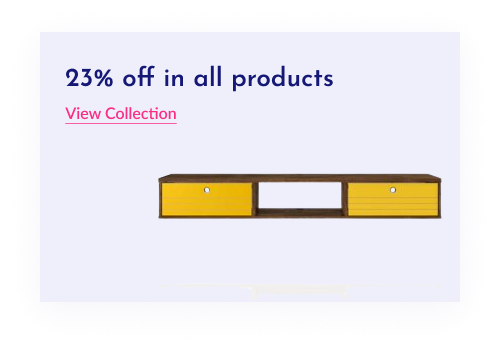
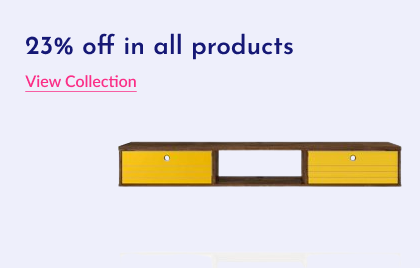
correct font

Changed region(s): [[0.2786, 0.4776, 0.9595, 0.7164], [0.0619, 0.1194, 0.7119, 0.3582]]

diff --git a/components/sections/home/TrendingProduct.tsx b/components/sections/home/TrendingProduct.tsx
@@ -42,7 +42,7 @@ const rightImg = [
 const TrendingProduct = () => {
   return (
     <section className="mt-20 container">
-      <h1 className="text-4xl text-center text-1 font-bold text-indigo-950">
+      <h1 className="text-4xl text-center jon font-bold text-indigo-950">
         Trending Products
       </h1>
       <div className="flex justify-center items-center gap-10 flex-col md:flex-row">
@@ -53,7 +53,7 @@ const TrendingProduct = () => {
           >
             <Image src={item.img} alt={item.name} width={247} height={244} />
             <p className="lato font-bold text-indigo-950 my-4">{item.name}</p>
-            <div className="flex justify-center items-center gap-x-2 text-1">
+            <div className="flex justify-center items-center gap-x-2 jon">
               <p className="text-indigo-950 text-sm">{item.price}</p>
               <p className="text-slate-300 text-[12px] line-through">
                 {item.prevPrice}
@@ -62,22 +62,22 @@ const TrendingProduct = () => {
           </div>
         ))}
       </div>
-      <div className="flex justify-center items-center mt-6 lg:flex-row flex-col">
+      <div className="flex justify-between items-center gap-2 mt-6 lg:flex-row flex-col">
         <Image
           src={"/trendingProducts/img-bottom-1.png"}
           alt="bottom-img"
           width={420}
           height={280}
-          className="w-auto h-[320px] cursor-pointer hover:scale-110 transition-all"
+          className=" h-[250px] w-[360px] cursor-pointer hover:scale-110 transition-all"
         />
         <Image
           src={"/trendingProducts/img-bottom-2.png"}
           alt="bottom-img"
           width={420}
           height={280}
-          className="w-auto h-[320px] cursor-pointer hover:scale-110 transition-all"
+          className=" h-[250px] w-[360px] cursor-pointer hover:scale-110 transition-all"
         />
-        <div className="flex items-center justify-center flex-col gap-y-3 mb-3">
+        <div className="flex items-center justify-center flex-col gap-y-3">
           {rightImg.map((item, index) => (
             <Image
               src={item.url}

diff --git a/app/product/[id]/page.tsx b/app/product/[id]/page.tsx
@@ -146,7 +146,7 @@ const page = ({ params }: { params: { id: string } }) => {
           </div>
         </div>
       </section>
-      <div className="mt-20 bg-slate-100 w-full lg:px-20 px-4 text-1 py-20 ">
+      <div className="mt-20 bg-slate-100 w-full lg:px-20 px-4 jon py-20 ">
         <div className="font-bold text-2xl flex justify-start items-center text-indigo-900 gap-x-20 lg:flex-row flex-col gap-y-8">
           <h1 className="underline cursor-pointer">Description</h1>
           <h1 className="cursor-pointer">Additional Info</h1>
@@ -195,7 +195,7 @@ const page = ({ params }: { params: { id: string } }) => {
         </p>
       </div>
       <div className="mt-20">
-        <h1 className="text-4xl text-center text-1 font-bold text-indigo-950">
+        <h1 className="text-4xl text-center jon font-bold text-indigo-950">
           Related Products
         </h1>
         <div className="flex justify-center items-center gap-7 mt-10 lg:flex-row flex-col">
@@ -206,7 +206,7 @@ const page = ({ params }: { params: { id: string } }) => {
             >
               <Image src={item.img} alt={item.name} width={270} height={340} />
               <div className="flex justify-between items-center">
-                <h1 className="text-1 font-semibold text-indigo-900 my-4">
+                <h1 className="jon font-semibold text-indigo-900 my-4">
                   {item.name}
                 </h1>
                 <div className="flex gap-x-1">
@@ -226,7 +226,7 @@ const page = ({ params }: { params: { id: string } }) => {
                   ))}
                 </div>
               </div>
-              <p className="text-1 text-indigo-900">{item.price}</p>
+              <p className="jon text-indigo-900">{item.price}</p>
             </div>
           ))}
         </div>

diff --git a/app/pages/page.tsx b/app/pages/page.tsx
@@ -7,10 +7,10 @@ import React from "react";
 
 const page = () => {
   return (
-    <main>
+    <main >
       <SubHero title="Shop List" />
       <FilterSection />
-      <section className="grid grid-cols-1 container sm:grid-cols-2 md:grid-cols-3 lg:grid-cols-4 gap-4 place-self-center mx-10 mt-16">
+      <section className="grid grid-cols-1 p-4 md:p-0 container sm:grid-cols-2 md:grid-cols-3 lg:grid-cols-4 gap-4 place-items-center mx-10 mt-16">
         {products.map((item, index) => (
           <Link  href={`/product/${item.id}`}  key={index}>
             <div className="bg-slate-100  max-w-[270px] h-[280px] flex justify-center items-center">
@@ -23,7 +23,7 @@ const page = () => {
               />
             </div>
             <div className="flex justify-center items-center flex-col">
-              <h1 className="text-lg text-center font-bold text-1 text-indigo-950 mt-4">
+              <h1 className="text-lg text-center font-bold jon text-indigo-950 mt-4">
                 {item.name}
               </h1>
               <Image
@@ -33,7 +33,7 @@ const page = () => {
                 height={10}
                 className="mt-2"
               />
-              <div className="flex justify-center gap-x-3 mt-3 text-1 text-sm">
+              <div className="flex justify-center gap-x-3 mt-3 jon text-sm">
                 <p className="text-indigo-900">{item.price}</p>
                 <p className="text-red-600 line-through">{item.prevPrice}</p>
               </div>

diff --git a/components/sections/home/Discount.tsx b/components/sections/home/Discount.tsx
@@ -23,7 +23,7 @@ const checktext = [
 const Discount = () => {
   return (
     <section className="mt-20 container">
-      <h1 className="text-4xl text-center text-1 font-bold text-indigo-950">
+      <h1 className="text-4xl text-center jon font-bold text-indigo-950">
         Discount Items
       </h1>
       <div className="mt-10 lato flex justify-center items-center gap-8 text-[18px] md:flex-row flex-col">
@@ -39,10 +39,10 @@ const Discount = () => {
       </div>
       <div className="flex justify-center items-center mt-10 gap-10 lg:flex-row flex-col text-center lg:text-start">
         <div>
-          <h1 className="text-indigo-950 lg:text-4xl text-3xl font-bold text-1">
+          <h1 className="text-indigo-950 lg:text-4xl text-3xl font-bold jon">
             20% Discount Of All Products
           </h1>
-          <h2 className="text-xl text-pink-400 text-1 mt-4">
+          <h2 className="text-xl text-pink-400 jon mt-4">
             Eams Sofa Compact
           </h2>
           <p className="text-slate-300 lato text-[17px] mt-4 text-wrap">
@@ -60,7 +60,7 @@ const Discount = () => {
               </div>
             ))}
           </div>
-          <p className="flex justify-center items-center bg-pink-500 w-[200px] h-[57px] text-white text-1 mt-8 mx-auto lg:mx-0">
+          <p className="flex justify-center items-center bg-pink-500 w-[200px] h-[57px] text-white jon mt-8 mx-auto lg:mx-0">
             Shop Now
           </p>
         </div>

diff --git a/components/sections/home/LatestBlog.tsx b/components/sections/home/LatestBlog.tsx
@@ -41,7 +41,7 @@ const imges = [
 const LatestBlog = () => {
   return (
     <section className="mt-20 container">
-      <h1 className="text-4xl text-center text-1 font-bold text-indigo-950">
+      <h1 className="text-4xl text-center jon font-bold text-indigo-950">
         Latest Blog
       </h1>
       <div className="flex justify-center items-center gap-8 mt-14 md:flex-row flex-col">
@@ -61,17 +61,17 @@ const LatestBlog = () => {
               <div className="flex justify-between items-center">
                 <div className="flex items-center mt-4 gap-x-2 w-full">
                   {item.penImg}
-                  <p className="text-1 text-indigo-950">{item.name}</p>
+                  <p className="jon text-indigo-950">{item.name}</p>
                 </div>
                 <div className="flex items-center mt-4 gap-x-2 w-full">
                   {item.docImg}
-                  <p className="text-1 text-indigo-950">{item.calender}</p>
+                  <p className="jon text-indigo-950">{item.calender}</p>
                 </div>
               </div>
               <h3
                 className={`${
                   item.id === 2 ? "text-pink-500" : "text-indigo-950"
-                } mt-5 text-lg font-bold text-1 `}
+                } mt-5 text-lg font-bold jon `}
               >
                 {item.title}
               </h3>

diff --git a/app/products/page.tsx b/app/products/page.tsx
@@ -2,6 +2,7 @@ import FilterSection from "@/components/small/FilterHeader";
 import SubHero from "@/components/small/SubHero";
 import { Heart, ShoppingCart, ZoomIn } from "lucide-react";
 import Image from "next/image";
+import Link from "next/link";
 import { IoMdStar } from "react-icons/io";
 
 const products = [
@@ -62,7 +63,7 @@ const Page = () => {
       <FilterSection />
       <div className="space-y-10 mt-20 container">
         {products.map((item, index) => (
-          <div
+          <Link href={"/product/1"}
             className="flex justify-start gap-y-14 p-4 gap-x-8 shadow-lg items-center"
             key={index}
           >
@@ -77,7 +78,7 @@ const Page = () => {
             </div>
             <div className="flex flex-col gap-2">
               <div className="flex items-center gap-x-4">
-                <h1 className="text-1 font-bold text-lg text-indigo-900">
+                <h1 className="jon font-bold text-lg text-indigo-900">
                   {item.name}
                 </h1>
                 <div>
@@ -115,7 +116,7 @@ const Page = () => {
                 ))}
               </div>
             </div>
-          </div>
+          </Link>
         ))}
       </div>
       <div className="flex justify-center items-center mt-14">

diff --git a/components/sections/home/Unique.tsx b/components/sections/home/Unique.tsx
@@ -10,8 +10,8 @@ const data = [
 
 const Unique = () => {
   return (
-    <section className="bg-[#F1F0FF] py-12 md:py-16">
-      <div className="container flex flex-col md:flex-row items-center justify-center gap-12 ">
+    <section className="bg-[#F1F0FF] px-4 py-12 md:py-16">
+      <div className="container flex  flex-col md:flex-row items-center justify-center gap-12 ">
         {/* Left Section: Images */}
         <div className="relative">
           <Image
@@ -31,7 +31,7 @@ const Unique = () => {
         </div>
         {/* Right Section: Content */}
         <div className="text-center md:text-left">
-          <h2 className="text-[#151875] text-[24px] md:text-[28px] lg:text-[35px] font-extrabold leading-tight">
+          <h2 className="text-[#151875] jon text-[24px] md:text-[28px] lg:text-[35px] font-extrabold leading-tight">
             Unique Features Of Latest & Trending Products
           </h2>
           <div className="mt-6 space-y-4">

diff --git a/components/layout/Footer.tsx b/components/layout/Footer.tsx
@@ -31,7 +31,7 @@ const Footer = () => {
     <footer className="bg-slate-200 mt-20 pb-10">
       <div className="grid grid-cols-1 md:grid-cols-2 lg:grid-cols-4 place-self-start pt-20 gap-10 lg:gap-0 px-8">
         <div className="lg:w-full lg:ml-10">
-          <h1 className="text-4xl text-1 font-bold text-indigo-950">Hekto</h1>
+          <h1 className="text-4xl jon font-bold text-indigo-950">Hekto</h1>
           <div className="flex items-center my-8">
             <input
               type="text"
@@ -51,7 +51,7 @@ const Footer = () => {
         </div>
         {categories.map((item, index) => (
           <div className="flex flex-col lg:ml-24" key={index}>
-            <h1 className="text-1 text-3xl font-bold text-indigo-950">
+            <h1 className="jon text-3xl font-bold text-indigo-950">
               {item.title}
             </h1>
             <div className="text-gray-500 space-y-3 mt-8 cursor-pointer w-full">

diff --git a/components/cards/Rofex.tsx b/components/cards/Rofex.tsx
@@ -1,14 +1,15 @@
 import { IRofex } from "@/data/Rofex";
 import Image from "next/image";
+import Link from "next/link";
 import React from "react";
 
 const RofexCard = ({ CardData }: { CardData: IRofex }) => {
   return (
-    <div className="h-[270px] max-w-[350px] w-full text-center justify-center flex flex-col shadow-lg shadow-[#1A0B5B4D] bg-white gap-4 items-center jus px-4">
+    <Link href={"/product/1"} className="h-[270px] max-w-[350px] w-full text-center justify-center flex flex-col shadow-lg shadow-[#1A0B5B4D] bg-white gap-4 items-center jus px-4">
       <Image height={60} width={60} src={CardData.icon} alt="" />
-      <h4 className="text-[#151875] font-semibold">{CardData.title}</h4>
+      <h4 className="text-[#151875] text-xl jon font-semibold">{CardData.title}</h4>
       <p className="text-[#1A0B5B4D]">{CardData.description}</p>
-    </div>
+    </Link>
   );
 };
 

diff --git a/components/cards/LatestCard.tsx b/components/cards/LatestCard.tsx
@@ -1,10 +1,11 @@
 import { ILatestProduct } from "@/data/latestCard";
 import Image from "next/image";
+import Link from "next/link";
 import React from "react";
 
 const LatestCard = ({ CardData, second }: { CardData: ILatestProduct, second: boolean }) => {
   return (
-    <div className="h-[306px] max-w-[350px] w-full flex flex-col gap-2">
+    <Link href={"/product/1"} className="h-[306px] jon max-w-[350px] w-full flex flex-col gap-2">
       <div className={`h-[270px] flex items-center justify-center ${second ? "bg-white" : "bg-[#F7F7F7]"} p-1`}>
         <Image src={CardData.image} alt="" width={245} height={245} />
       </div>
@@ -18,7 +19,7 @@ const LatestCard = ({ CardData, second }: { CardData: ILatestProduct, second: bo
           
         </div>
       </div>
-    </div>
+    </Link>
   );
 };
 

diff --git a/components/cards/FeatureCard.tsx b/components/cards/FeatureCard.tsx
@@ -1,10 +1,11 @@
 import { FeaturedProduct } from "@/data/featurCard";
 import Image from "next/image";
+import Link from "next/link";
 import React from "react";
 
 const FeatureCard = ({ cardData }: { cardData: FeaturedProduct }) => {
   return (
-    <div className="h-[360px] shadow-md w-full max-w-[300px]  flex-col gap-2">
+    <Link href={"/product/1"} className="h-[360px] jon shadow-md w-full max-w-[300px]  flex-col gap-2">
       <div className="bg-[#F6F7FB] flex  items-center justify-center h-[236px]">
         <Image
           src={cardData.image}
@@ -25,7 +26,7 @@ const FeatureCard = ({ cardData }: { cardData: FeaturedProduct }) => {
 
         <p className="text-[#151875] text-[14px]">${cardData.price}</p>
       </div>
-    </div>
+    </Link>
   );
 };
 

diff --git a/components/sections/home/Feature.tsx b/components/sections/home/Feature.tsx
@@ -5,7 +5,7 @@ import FeatureCard from "../../cards/FeatureCard";
 const Feature = () => {
   return (
     <section className="container py-10 flex flex-col gap-8 items-center">
-      <h2 className="text-[#151875] text-[42px] font-bold">Featured Products</h2>
+      <h2 className="text-[#151875] jon text-[42px] font-bold">Featured Products</h2>
       
       <div className="grid grid-cols-1 sm:grid-cols-2 md:grid-cols-3 lg:grid-cols-4 gap-2 place-items-center w-full  ">
         {featuredProducts.map((product, index) => (
